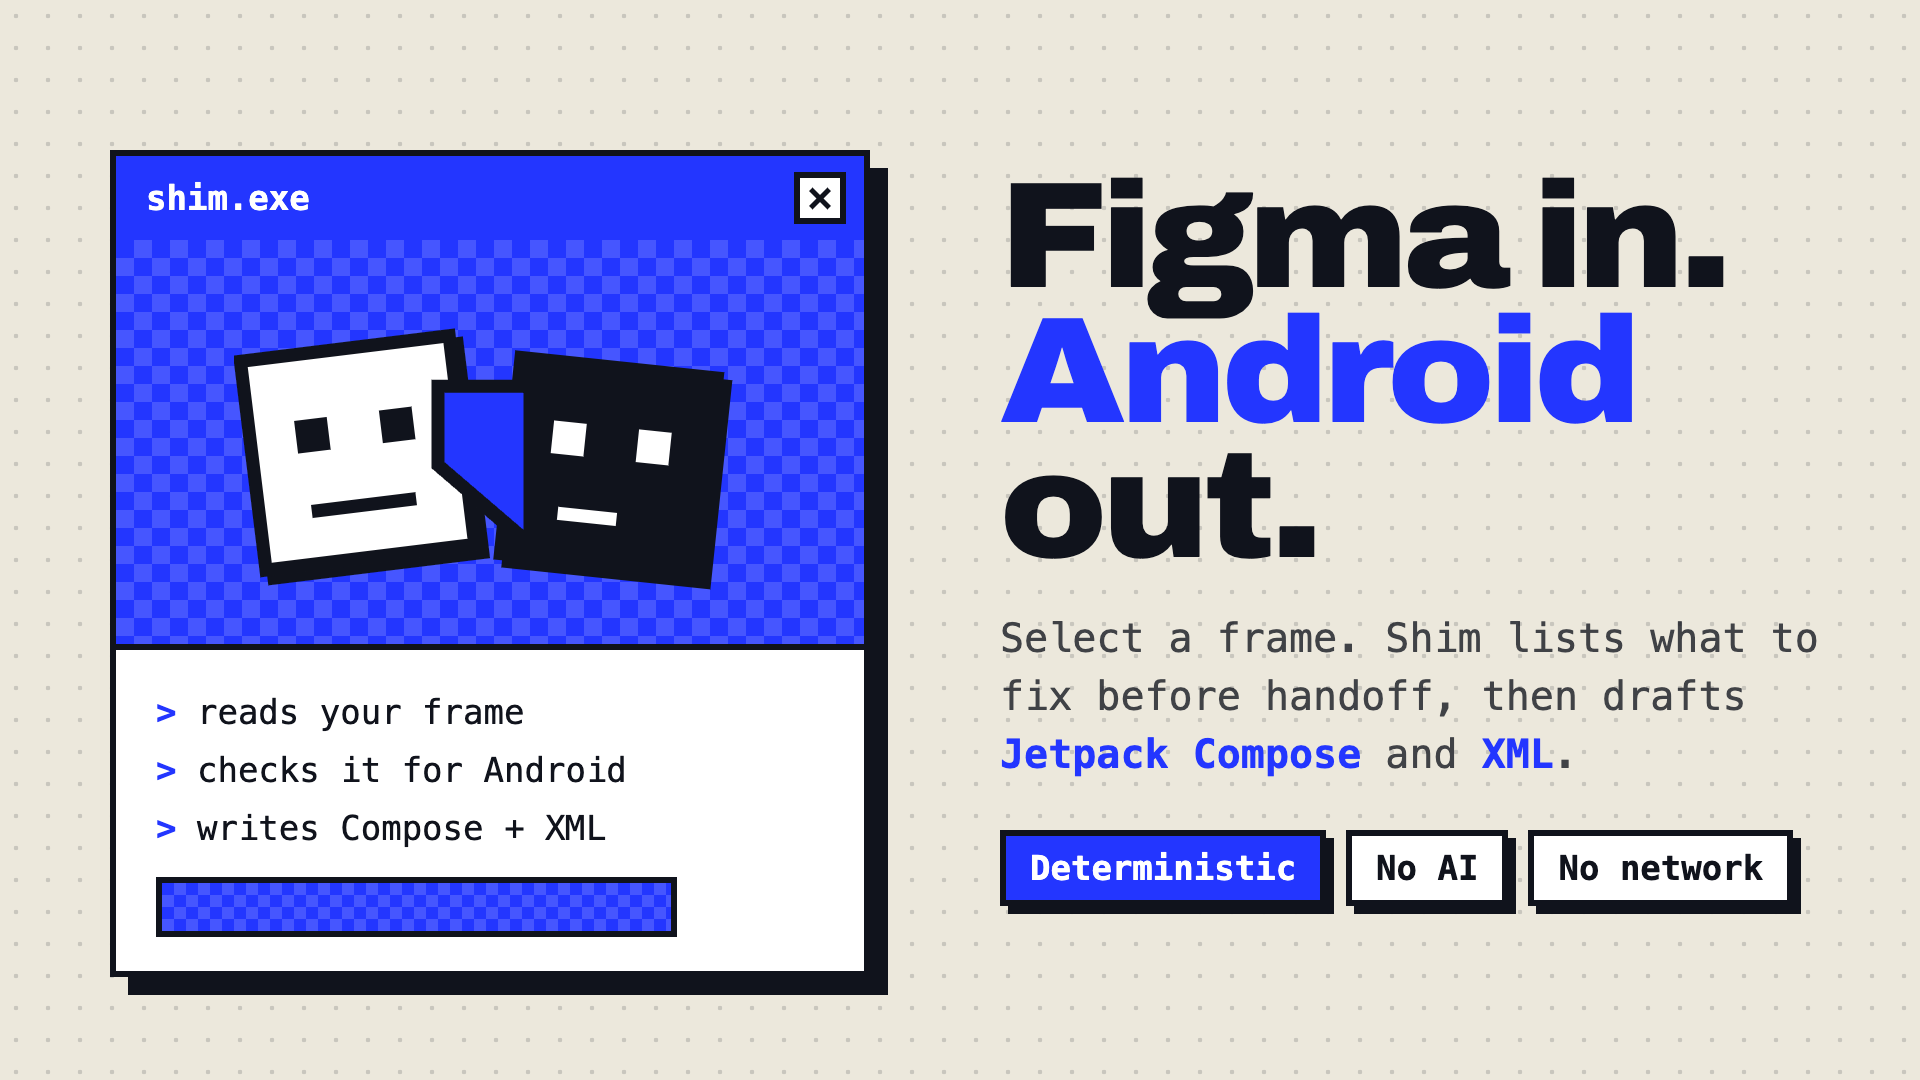
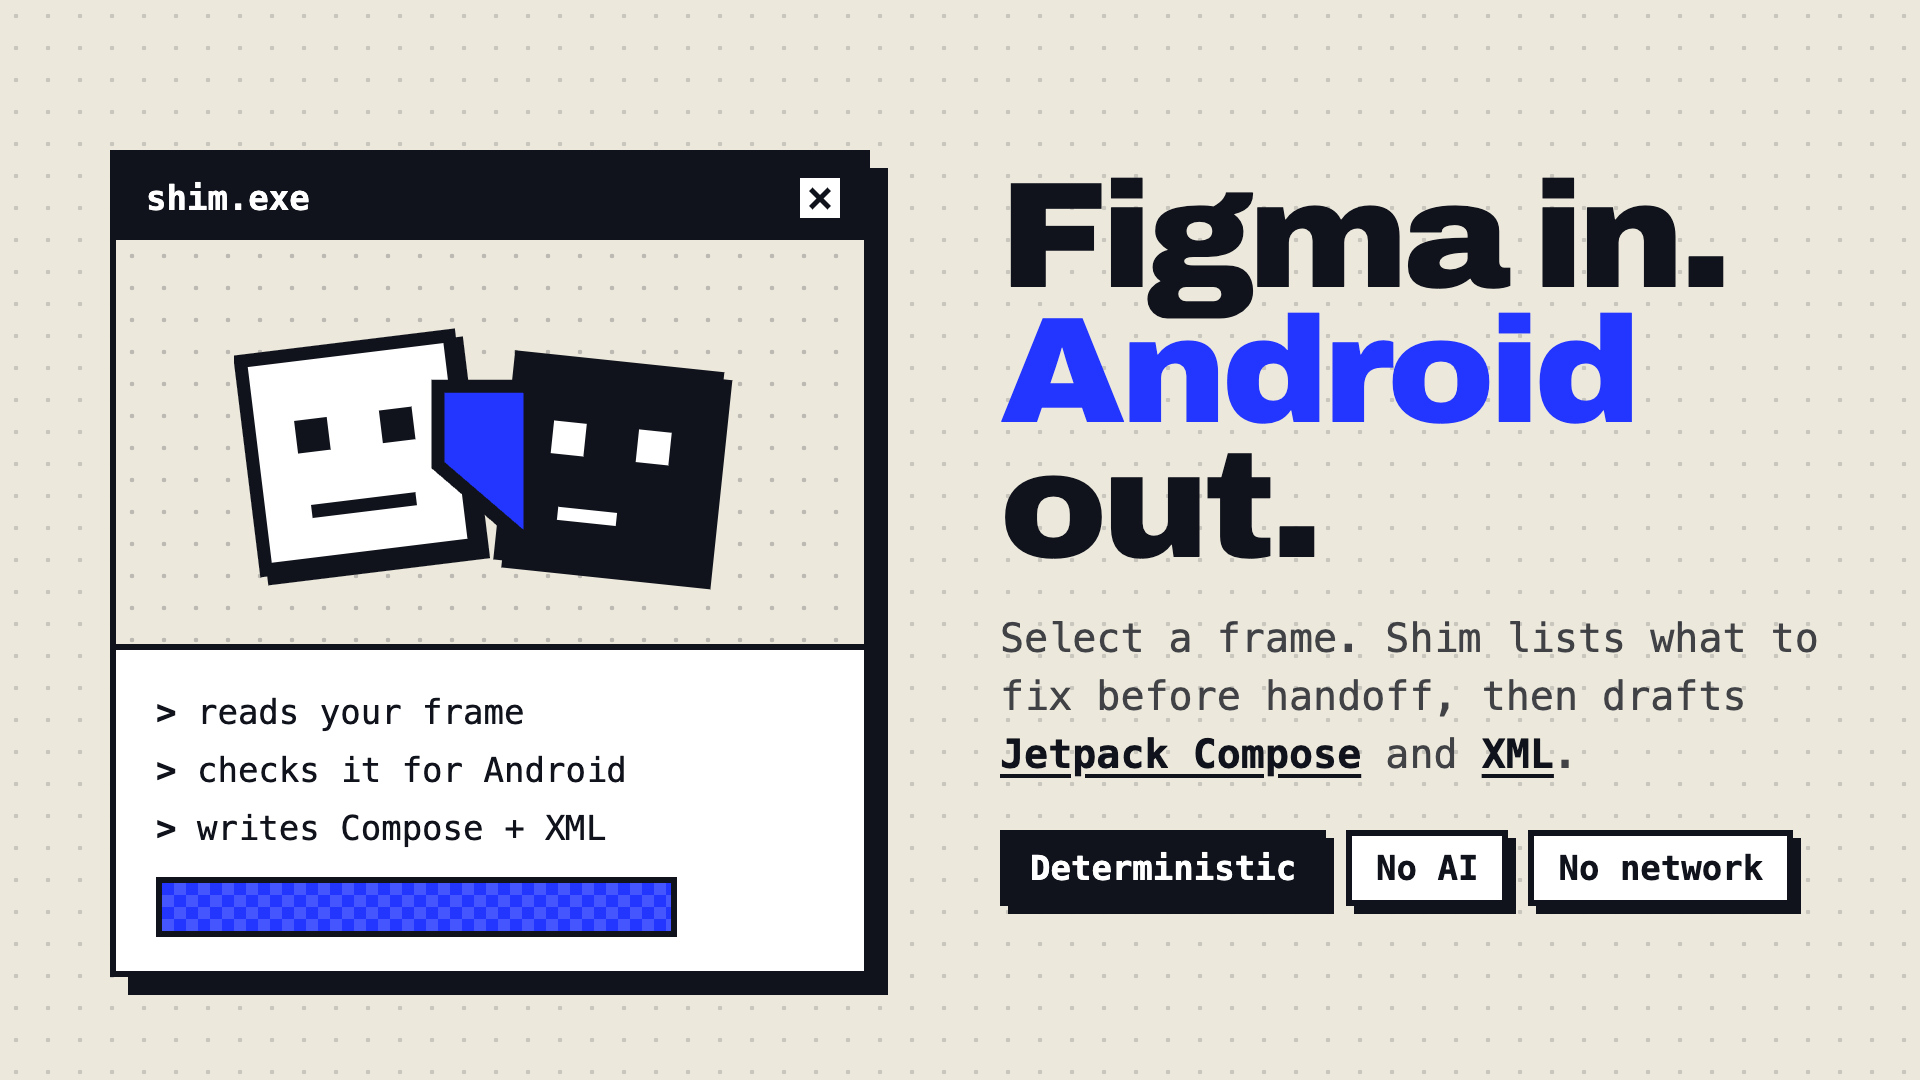
UI: use blue only for action, verdict and blockers; refresh README and Community images
Title bars, prompts and markers are ink. Icon, cover and screenshots
re-rendered to match.

diff --git a/src/ui.html b/src/ui.html
@@ -19,7 +19,7 @@ button:focus-visible,summary:focus-visible,select:focus-visible,input:focus-visi
 
 /* top line + header */
 .connection-row{display:flex;align-items:center;justify-content:space-between;gap:8px;margin-bottom:16px;font:12px var(--mono);color:var(--ink)}
-.connection-row span:before{content:"";display:inline-block;width:10px;height:10px;background:var(--blue);margin-right:8px}
+.connection-row span:before{content:"";display:inline-block;width:10px;height:10px;background:var(--ink);margin-right:8px}
 .connection-row button{height:28px;padding:0 10px;font-size:11px;box-shadow:2px 2px 0 var(--ink)}
 header{display:flex;align-items:center;gap:16px;margin-bottom:22px}
 .logo{flex:none;width:76px;height:56px}
@@ -29,8 +29,8 @@ header p{margin-top:6px;font:12px var(--mono)}
 
 /* every section is a window */
 .panel{background:var(--win);border:2px solid var(--ink);box-shadow:6px 6px 0 var(--ink);margin:0 0 26px}
-.tb{height:36px;background:var(--blue);color:#fff;display:flex;align-items:center;justify-content:space-between;padding:0 6px 0 12px;font:700 13px var(--mono);letter-spacing:.02em}
-.tb.ink{background:var(--ink)}
+.tb{height:36px;background:var(--ink);color:#fff;display:flex;align-items:center;justify-content:space-between;padding:0 6px 0 12px;font:700 13px var(--mono);letter-spacing:.02em}
+
 .tb .x{width:24px;height:24px;background:var(--win);border:2px solid var(--ink);position:relative;flex:none}
 .tb .x:before,.tb .x:after{content:"";position:absolute;left:3px;right:3px;top:9px;height:2px;background:var(--ink);transform:rotate(45deg)}
 .tb .x:after{transform:rotate(-45deg)}
@@ -51,7 +51,7 @@ header p{margin-top:6px;font:12px var(--mono)}
 .tabs button{height:28px;padding:0 12px;font-size:12px;box-shadow:none}
 .tabs button.active{background:var(--ink);color:#fff}
 .tb .tabs button{height:24px;border-color:#fff;background:transparent;color:#fff;padding:0 8px;font-size:11px}
-.tb .tabs button.active{background:#fff;color:var(--blue)}
+.tb .tabs button.active{background:#fff;color:var(--ink)}
 #gauge{margin:14px 0 4px;display:flex;flex-direction:column;gap:6px}
 #gauge:empty{display:none}
 .leaf{height:30px;border:2px solid var(--ink);background:var(--win);display:flex;align-items:center;padding:0 10px;font:700 12px var(--mono);white-space:nowrap;overflow:hidden;transform-origin:left center;animation:fill .3s steps(6) both;animation-delay:calc(var(--i,0)*70ms)}
@@ -73,7 +73,7 @@ header p{margin-top:6px;font:12px var(--mono)}
 .next-action{margin-top:12px;border:2px solid var(--ink);background:var(--bone);padding:10px 12px}
 .next-action:has(p:empty){display:none}
 #next-step{color:var(--ink);font:700 13px var(--mono)}
-#next-step:before{content:"> ";color:var(--blue)}
+#next-step:before{content:"> ";color:var(--ink)}
 #review-next{margin-top:10px;height:28px;padding:0 10px;font-size:11px;box-shadow:2px 2px 0 var(--ink)}
 
 /* findings */
@@ -90,10 +90,10 @@ header p{margin-top:6px;font:12px var(--mono)}
 .finding-actions .technical-link{border:0;box-shadow:none;background:none;color:var(--dim);text-decoration:underline;text-underline-offset:3px;padding:0 4px;font-weight:500}
 .action-detail{font-size:12px;margin-top:8px}
 summary{cursor:pointer;font:700 12px var(--mono)}
-summary::marker{color:var(--blue)}
+summary::marker{color:var(--ink)}
 .resolution{margin-top:8px;padding:9px 12px;background:var(--bone);border:2px solid var(--ink);color:var(--ink);font-size:12px}
 .secondary-section{padding:10px 0;border-top:2px solid var(--ink);margin:12px 0 0}
-.generation-warning{padding:10px 12px;border:2px solid var(--ink);background:var(--bone);margin:12px 0;font-size:12px;box-shadow:4px 4px 0 var(--blue)}
+.generation-warning{padding:10px 12px;border:2px solid var(--ink);background:var(--bone);margin:12px 0;font-size:12px;box-shadow:4px 4px 0 var(--ink)}
 .generation-warning strong{font:700 13px var(--mono)}
 .generation-warning p{font-size:12px;color:var(--ink)}
 .generation-warning button{margin-top:8px;height:28px;padding:0 10px;font-size:11px;box-shadow:2px 2px 0 var(--ink)}
@@ -115,7 +115,7 @@ summary::marker{color:var(--blue)}
 #files{width:100%;height:36px;margin:12px 0 10px;padding:0 10px;background:var(--win);border:2px solid var(--ink);border-radius:0;font:12px var(--mono)}
 pre{margin:0;min-height:170px;max-height:320px;overflow:auto;white-space:pre;tab-size:4;font:12px/1.65 var(--mono);color:#E8E4D8;background:var(--ink);padding:14px;border:2px solid var(--ink)}
 .actions{display:flex;gap:10px;margin-top:14px}
-#message{font:12px var(--mono);color:var(--blue);min-height:18px;margin-top:10px}
+#message{font:12px var(--mono);color:var(--ink);min-height:18px;margin-top:10px}
 footer{display:flex;justify-content:space-between;font:11px var(--mono);color:var(--dim)}
 </style></head><body>
 <div class="connection-row"><span id="connection" role="status">UI loading · v0.5.0</span><button id="refresh">Refresh selection</button></div>
@@ -131,7 +131,7 @@ footer{display:flex;justify-content:space-between;font:11px var(--mono);color:va
 <p class="verification-note">Design readiness and code generation are evaluated separately. Not build verified.</p>
 <details id="technical-report" class="report-details"><summary id="technical-count">Technical details</summary><div id="raw-diagnostics"></div><details><summary>Parsed checks</summary><div id="passed"></div></details></details>
 </div></section>
-<section class="panel"><div class="tb ink"><span>implementation</span><span class="badge">NOT BUILD VERIFIED</span><span class="x"></span></div><div class="rb"><div class="tabs"><button id="compose" class="active">Jetpack Compose</button><button id="xml">Android XML</button></div><select id="files" aria-label="Generated file" disabled><option>No generated files</option></select><pre id="code" tabindex="0">// Analyze a selection to preview implementation.</pre><div class="actions"><button id="copy" disabled>Copy code</button><button id="export" disabled>Export files (.zip)</button></div><p class="note">1 Figma px → 1 dp / text sp. Fonts need Android mapping. Snapshot: analyze again after design edits. Not build verified.</p><div id="message" role="status" aria-live="polite"></div></div></section>
+<section class="panel"><div class="tb"><span>implementation</span><span class="badge">NOT BUILD VERIFIED</span><span class="x"></span></div><div class="rb"><div class="tabs"><button id="compose" class="active">Jetpack Compose</button><button id="xml">Android XML</button></div><select id="files" aria-label="Generated file" disabled><option>No generated files</option></select><pre id="code" tabindex="0">// Analyze a selection to preview implementation.</pre><div class="actions"><button id="copy" disabled>Copy code</button><button id="export" disabled>Export files (.zip)</button></div><p class="note">1 Figma px → 1 dp / text sp. Fonts need Android mapping. Snapshot: analyze again after design edits. Not build verified.</p><div id="message" role="status" aria-live="polite"></div></div></section>
 <footer><span>Deterministic · No AI · No network</span><span>Android-first handoff / v0.5.0</span></footer>
 <script>
 // Kept separate from the bundle so bundle parse/startup failures are visible.

diff --git a/design/DIRECTION.md b/design/DIRECTION.md
@@ -17,3 +17,6 @@
 ---
 ## Revision 2 (2026-10-17): Stranger.exe style
 Designer: the feeler-gauge look read as AI slop; wanted the Stranger.exe style (`~/Downloads/dating/explore/stranger-exe`). Replaced wholesale. Tokens: bone #ECE8DC + dot grid, white windows, ink #10131C, cobalt #2336FF, 2px ink borders, hard 4–6px offset shadows, square corners. Type: Archivo (embedded variable woff2, wdth 108%, 900) for hero; ui-monospace for system voice. Sections are windows (`selection.fig`, `readiness.log`, `implementation`). Logo: the two faces with a cobalt wedge between them. Gauge leaves became dithered progress bars (blockers cobalt). Light only, as in Stranger.exe. Same look as history row "Stranger.exe (quiet)": chosen by the designer, not by the process.
+
+## Revision 3 (2026-10-17): less blue
+Blue was on every title bar, prompt and marker, which read as too much. Blue now means three things only: the primary action (Analyze), the verdict that needs attention, and blockers. Title bars, prompts, markers, messages and the connection dot are ink. Community icon and cover follow the same rule: bone ground, ink bars, the blue wedge as the one accent.
